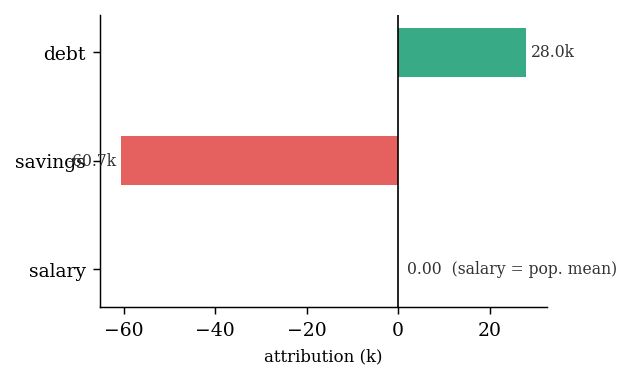
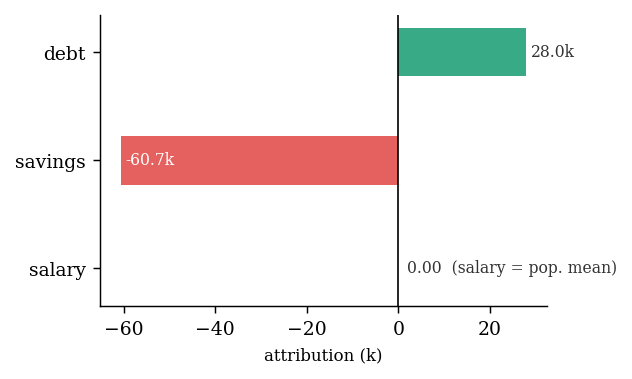
Added contrastive explanation, with PI style visualisation.

diff --git a/wealth_example/ciu_vs_shap_wealth.py b/wealth_example/ciu_vs_shap_wealth.py
@@ -12,6 +12,7 @@ Produces the following figure files (in ./figures/):
   pi_plot_wealth.pdf  -- CIU Potential Influence (PI) plot
   shap_wealth.pdf     -- SHAP attributions
   pi_vs_shap.pdf      -- PI plot + SHAP side by side
+  pi_contrastive_wealth.pdf -- contrastive PI plot: me vs. a wealthier neighbour
 
 Requires:  numpy, matplotlib  (pip install numpy matplotlib)
 
@@ -22,6 +23,7 @@ import os
 import numpy as np
 import matplotlib.pyplot as plt
 import matplotlib.patches as mpatches
+from matplotlib.patches import FancyArrowPatch
 import matplotlib.ticker as ticker
 
 # ── output directory ──────────────────────────────────────────────────────────
@@ -393,8 +395,8 @@ for i, (fname, sv) in enumerate(zip(FEATURE_NAMES, shap_vals)):
         ax.text(sv + 1, i, f"{sv:.1f}k",
                 va="center", ha="left", fontsize=7.5, color="#333")
     else:
-        ax.text(sv - 1, i, f"{sv:.1f}k",
-                va="center", ha="right", fontsize=7.5, color="#333")
+        ax.text(sv + 1, i, f"{sv:.1f}k",        # inside the bar: avoids the y-axis labels
+                va="center", ha="left", fontsize=7.5, color="white")
 fig.tight_layout()
 savefig("shap_wealth", fig)
 plt.close(fig)
@@ -439,11 +441,79 @@ for i, (fname, sv) in enumerate(zip(FEATURE_NAMES, shap_vals)):
         ax2.text(sv + 1, i, f"{sv:.1f}k",
                  va="center", ha="left", fontsize=7.5, color="#333")
     else:
-        ax2.text(sv - 1, i, f"{sv:.1f}k",
-                 va="center", ha="right", fontsize=7.5, color="#333")
+        ax2.text(sv + 1, i, f"{sv:.1f}k",       # inside the bar: avoids the y-axis labels
+                 va="center", ha="left", fontsize=7.5, color="white")
 
 fig.tight_layout()
 savefig("pi_vs_shap", fig)
+plt.close(fig)
+
+
+# =============================================================================
+# 11. CONTRASTIVE PI PLOT  --  "How do I get to my neighbour's wealth?"
+#
+#     Everything is evaluated in the context of the explained instance x (me):
+#       CI_i, CU_i      as in the PI plot
+#       CU_i(x_B)       utility of the neighbour's value x_B,i in MY context,
+#                       i.e. position of f(x with x_i := x_B,i) in [ymin_i, ymax_i]
+#       gap_i  = CI_i * (CU_i(x_B) - CU_i)   effect of adopting the neighbour's value
+#       room_i = CI_i * (1 - CU_i)           effect of the best possible value
+# =============================================================================
+
+print("Generating contrastive PI plot ...")
+
+neighbour = np.array([150.0, 200.0, 80.0])          # salary, savings, debt (k)
+y_nb = wealth_model(neighbour.reshape(1, -1))[0]
+
+CU_nb = []
+for idx, fname in enumerate(FEATURE_NAMES):
+    r = ciu[fname]
+    z = instance.copy()
+    z[idx] = neighbour[idx]
+    u_z = float(u(wealth_model(z.reshape(1, -1))[0]))
+    CU_nb.append((u_z - r["umin_i"]) / r["CI"])
+
+gaps  = [ci * (cub - cu) for ci, cu, cub in zip(CI_vals, CU_vals, CU_nb)]
+rooms = [ci * (1 - cu)   for ci, cu      in zip(CI_vals, CU_vals)]
+
+print(f"  Neighbour: salary={neighbour[0]:.0f}k  savings={neighbour[1]:.0f}k  "
+      f"debt={neighbour[2]:.0f}k   predicted wealth={y_nb:.1f}k")
+print(f"  {'':10} {'CU(me)':>7} {'CU(nb)':>7} {'gap':>7} {'room':>7}")
+for fname, cu, cub, g, rm in zip(FEATURE_NAMES, CU_vals, CU_nb, gaps, rooms):
+    print(f"  {fname:<10} {cu:>7.2f} {cub:>7.2f} {g:>+7.2f} {rm:>7.2f}")
+
+C_ARROW_GOOD = "#0B6E4F"   # darker than C_GREEN so the arrow stays visible on green bars
+C_ARROW_BAD  = "#A61B1A"
+
+fig, ax = plt.subplots(figsize=(4.2, 2.6))
+ax.barh(y_pos, CI_vals, height=0.45,
+        color=C_PI_BG, alpha=1.0, edgecolor="#999999", linewidth=0.8)
+ax.barh(y_pos, [ci * cu for ci, cu in zip(CI_vals, CU_vals)], height=0.45,
+        color=[_solid_color(cu) for cu in CU_vals], alpha=0.88)
+for i, (ci, cu, cub, g, rm) in enumerate(zip(CI_vals, CU_vals, CU_nb, gaps, rooms)):
+    x_me, x_nb = ci * cu, ci * cub
+    ax.plot([x_nb, x_nb], [i - 0.30, i + 0.30], color="black", lw=2, zorder=4)
+    ax.add_patch(FancyArrowPatch((x_me, i), (x_nb, i), arrowstyle="-|>",
+                                 mutation_scale=10, lw=1.8, zorder=5,
+                                 color=C_ARROW_GOOD if g > 0 else C_ARROW_BAD))
+    ax.text(ci + 0.01, i, f"gap {g:+.2f}, room {rm:.2f}",
+            va="center", fontsize=7.5, color="#333")
+ax.set_yticks(y_pos)
+ax.set_yticklabels(FEATURE_NAMES, fontsize=9)
+ax.set_xlim(0, 0.75)
+ax.set_xlabel("CI  in  [0, 1]", fontsize=8)
+ax.axvline(0, color="black", lw=0.5)
+CONTRAST_LEGEND = [
+    mpatches.Patch(facecolor=C_PI_BG, edgecolor="#999999", label="CI (me)"),
+    mpatches.Patch(facecolor=C_GREEN, alpha=0.88, label="CI x CU (me)"),
+    plt.Line2D([0], [0], color="black", lw=2, label="neighbour's value"),
+    plt.Line2D([0], [0], color=C_ARROW_GOOD, lw=1.8, label="worth adopting"),
+    plt.Line2D([0], [0], color=C_ARROW_BAD,  lw=1.8, label="not worth adopting"),
+]
+fig.legend(handles=CONTRAST_LEGEND, loc="lower center", ncol=3, fontsize=6.5,
+           frameon=False, bbox_to_anchor=(0.5, -0.10))
+fig.tight_layout()
+savefig("pi_contrastive_wealth", fig)
 plt.close(fig)
 
 print("\nDone. All figures written to ./figures/")
